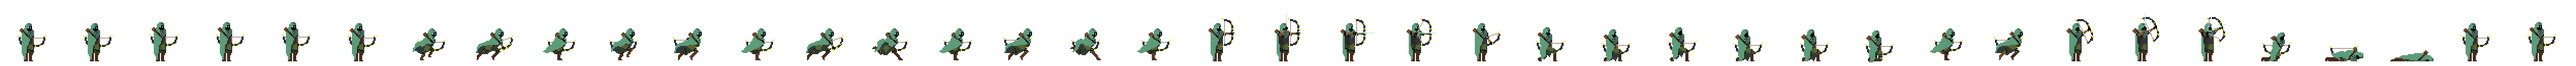
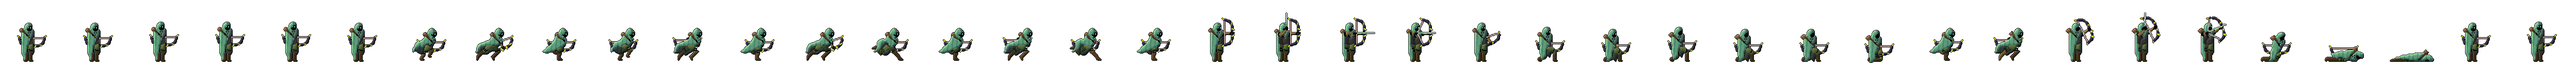
Arqueiro com mais detalhes e sombreado; Necromante volta ao sprite anterior
Claude-Session: https://claude.ai/code/session_019r29ZVD3cqF2PF6pdahmsD

diff --git a/Projeto atualizado/sw.js b/Projeto atualizado/sw.js
@@ -1,4 +1,4 @@
-const CACHE = "ded-web-v4.44.0-necromante";
+const CACHE = "ded-web-v4.45.0-arqueiro-sombreado";
 
 self.addEventListener("install", () => self.skipWaiting());
 

diff --git a/sw.js b/sw.js
@@ -1,4 +1,4 @@
-const CACHE = "ded-web-v4.44.0-necromante";
+const CACHE = "ded-web-v4.45.0-arqueiro-sombreado";
 
 self.addEventListener("install", () => self.skipWaiting());
 

diff --git a/scripts/enhance_pixel_sprite.py b/scripts/enhance_pixel_sprite.py
@@ -1,0 +1,110 @@
+"""
+Realce de sprite em pixel art (usado no Arqueiro): dobra a resolução e
+"repinta" com volume — suaviza a escadinha (Scale2x), sombreia cada material
+com luz vinda do alto-esquerda em faixas (sem degradê), joga sombra fria e luz
+quente, dobras na capa, oclusão embaixo e contorno escuro de 1px.
+
+enhance(img_rgba_lowres) -> img_rgba (2x)
+"""
+import colorsys
+
+import numpy as np
+from PIL import Image
+from scipy import ndimage
+
+LIGHT = np.array([-0.62, -0.78])          # luz vindo do alto-esquerda
+KEEP = {(213, 220, 29), (115, 239, 232), (189, 164, 153)}   # brilhos, olhos e corda: sem sombra
+CLOAK = {(93, 155, 121), (72, 104, 89), (44, 59, 57)}
+
+
+def scale2x(a):
+    """EPX/Scale2x em RGBA (array HxWx4) → 2Hx2W"""
+    h, w = a.shape[:2]
+    P = np.pad(a, ((1, 1), (1, 1), (0, 0)), mode="edge")
+    E = P[1:-1, 1:-1]
+    A, B, C, D = P[:-2, 1:-1], P[1:-1, 2:], P[1:-1, :-2], P[2:, 1:-1]   # cima, dir, esq, baixo
+    eq = lambda x, y: np.all(x == y, axis=-1)
+    out = np.zeros((h * 2, w * 2, 4), a.dtype)
+    c1 = eq(C, A) & ~eq(C, D) & ~eq(A, B)
+    c2 = eq(A, B) & ~eq(A, C) & ~eq(B, D)
+    c3 = eq(D, C) & ~eq(D, B) & ~eq(C, A)
+    c4 = eq(B, D) & ~eq(B, A) & ~eq(D, C)
+    out[0::2, 0::2] = np.where(c1[..., None], A, E)
+    out[0::2, 1::2] = np.where(c2[..., None], B, E)
+    out[1::2, 0::2] = np.where(c3[..., None], C, E)
+    out[1::2, 1::2] = np.where(c4[..., None], D, E)
+    return out
+
+
+def shift(rgb, f):
+    """clareia/escurece com troca de matiz (sombra fria, luz quente) e posterização"""
+    r, g, b = [x / 255 for x in rgb]
+    h, s, v = colorsys.rgb_to_hsv(r, g, b)
+    if f < 0:
+        h = h + (0.66 - h) * min(.18, -f * .35)          # puxa para azul
+        s = min(1, s * (1 - f * .25))
+        v = v * (1 + f * .55)
+    else:
+        h = h + ((0.12 if h < .6 else 1.12) - h) * min(.12, f * .25)  # puxa para amarelo
+        s = s * (1 - f * .22)
+        v = min(1, v * (1 + f * .45) + f * .05)
+    rr, gg, bb = colorsys.hsv_to_rgb(h % 1, max(0, min(1, s)), max(0, min(1, v)))
+    return int(rr * 255), int(gg * 255), int(bb * 255)
+
+
+def enhance(img):
+    a = np.asarray(img.convert("RGBA")).copy()
+    a[a[..., 3] < 128] = 0
+    a[..., 3] = np.where(a[..., 3] > 0, 255, 0)
+    big = scale2x(a)
+    H, W = big.shape[:2]
+    alpha = big[..., 3] > 0
+    rgb = big[..., :3]
+    keys = rgb[..., 0].astype(np.int64) * 65536 + rgb[..., 1].astype(np.int64) * 256 + rgb[..., 2]
+    # altura = silhueta geral + volume de cada material
+    hgt = ndimage.gaussian_filter(alpha.astype(float), 3.2) * .55
+    local = np.zeros((H, W))
+    for k in np.unique(keys[alpha]):
+        m = (keys == k) & alpha
+        lab, n = ndimage.label(m)
+        for i in range(1, n + 1):
+            mi = lab == i
+            local[mi] = ndimage.gaussian_filter(mi.astype(float), 1.6)[mi]
+    hgt += local * .45
+    gy, gx = np.gradient(hgt)
+    lit = -(gx * LIGHT[0] + gy * LIGHT[1]) * 11                   # ~[-1,1]
+    # oclusão: mais escuro perto dos pés / base da capa
+    ys = np.arange(H)[:, None] / H
+    rows = np.where(alpha.any(1))[0]
+    y0, y1 = (rows.min(), rows.max()) if len(rows) else (0, H)
+    yy = np.clip((np.arange(H)[:, None] - y0) / max(1, y1 - y0), 0, 1)
+    lit = lit - np.clip(yy - .72, 0, 1) * 1.1
+    # dobras verticais na capa
+    xx = np.arange(W)[None, :]
+    folds = np.where(np.sin(xx * .75 + np.arange(H)[:, None] * .06) > .55, -.55, 0.0)
+    out = big.copy()
+    for y, x in zip(*np.nonzero(alpha)):
+        c = tuple(int(v) for v in rgb[y, x])
+        if c in KEEP:
+            continue
+        f = lit[y, x]
+        if c in CLOAK:
+            f += folds[y, x]
+        q = round(max(-1.4, min(1.2, f)) * 2.2) / 2.2           # faixas
+        if abs(q) < .2:
+            continue
+        out[y, x, :3] = shift(c, q * .55)
+    # luz de borda: 1px mais claro no contorno de cima/esquerda de cada material
+    up = np.zeros_like(alpha); up[1:] = alpha[:-1]
+    lf = np.zeros_like(alpha); lf[:, 1:] = alpha[:, :-1]
+    rim = alpha & (~up | ~lf)
+    for y, x in zip(*np.nonzero(rim)):
+        c = tuple(int(v) for v in rgb[y, x])
+        if c not in KEEP and sum(c) > 90:
+            out[y, x, :3] = shift(tuple(int(v) for v in out[y, x, :3]), .45)
+    # contorno de 1px (cor escura levemente puxada da vizinha)
+    ring = ndimage.binary_dilation(alpha) & ~alpha
+    for y, x in zip(*np.nonzero(ring)):
+        out[y, x] = (22, 17, 24, 255)
+    # borda interna entre materiais muito diferentes → linha de separação sutil
+    return Image.fromarray(out, "RGBA")

diff --git a/scripts/build_hero_sheets.py b/scripts/build_hero_sheets.py
@@ -99,7 +99,14 @@ pick = {
     "deathA": A["death"][(1, 6)], "deathB": A["death"][(1, 7)], "deathC": A["death"][(2, 1)],
     "upA": idle_a[(0, 0)], "upB": idle_a[(0, 1)],
 }
-af = [frame(pick[k], BCX, BB, K) for k in ORDER]
+sys.path.insert(0, os.path.dirname(os.path.abspath(__file__)))
+from enhance_pixel_sprite import enhance  # noqa: E402
+_cache = {}
+af = []
+for k in ORDER:
+    key = id(pick[k])
+    _cache.setdefault(key, enhance(pick[k]))
+    af.append(frame(_cache[key], BCX * K, BB * K, 1))
 top = min(f.getbbox()[1] for f in af[:4])
 h = FOOT - top
 n = len(af)
